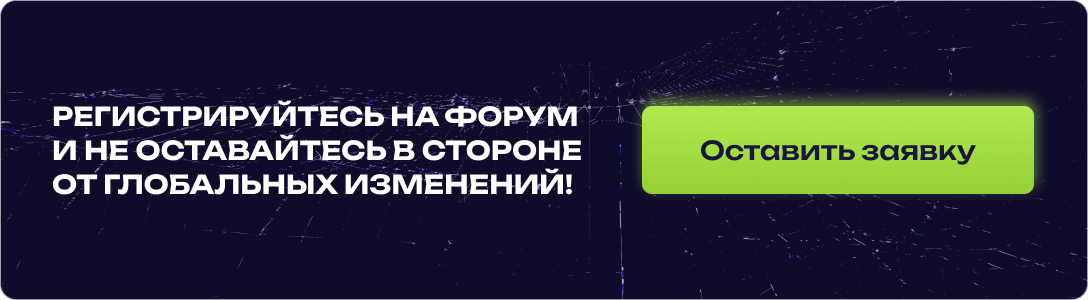
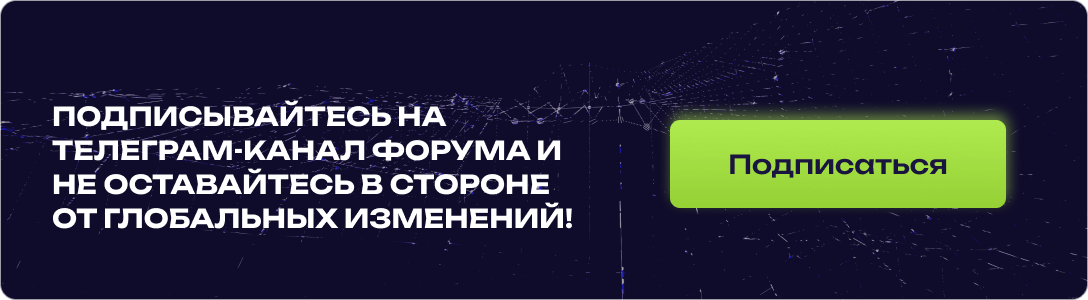
change open-innovations-2024-invite

Changed region(s): [[0.0312, 0.33, 0.5312, 0.78], [0.5625, 0.3, 0.9688, 0.72]]

diff --git a/open-innovations-2024-invite/Приглашаем на пленарные сессии форума.html b/open-innovations-2024-invite/Приглашаем на пленарные сессии форума.html
@@ -402,8 +402,8 @@
                             <tbody>
                             <tr>
                                 <td align="center" style="width:544px;">
-                                    <a href="https://openinnovations.ru/registration/email?utm_source=email_in&utm_medium=letter&utm_campaign=8" target="_blank">
-                                        <img alt="Регистрируйтесь на&nbsp;форум и&nbsp;не оставайтесь в&nbsp;стороне от&nbsp;глобальных изменений! Нажмите здесь, чтобы оставить заявку" height="auto" src="https://cp.unisender.com/ru/user_file?resource=images&user_id=5608985&name=oi-invite-content-img-4.png" style="border:0;display:block;outline:none;text-decoration:none;height:auto;max-width:544px;width:100%;font-size:13px;color:#FFFFFF;" width="544" />
+                                    <a href="https://t.me/open_innovations" target="_blank">
+                                        <img alt="Подписывайтесь на&nbsp;телеграм-канал форума и&nbsp;не оставайтесь в&nbsp;стороне от глобальных изменений! Нажмите здесь, чтобы подписаться" height="auto" src="https://cp.unisender.com/ru/user_file?resource=images&user_id=5608985&name=oi-invite-content-img-4.png" style="border:0;display:block;outline:none;text-decoration:none;height:auto;max-width:544px;width:100%;font-size:13px;color:#FFFFFF;" width="544" />
                                     </a>
                                 </td>
                             </tr>
